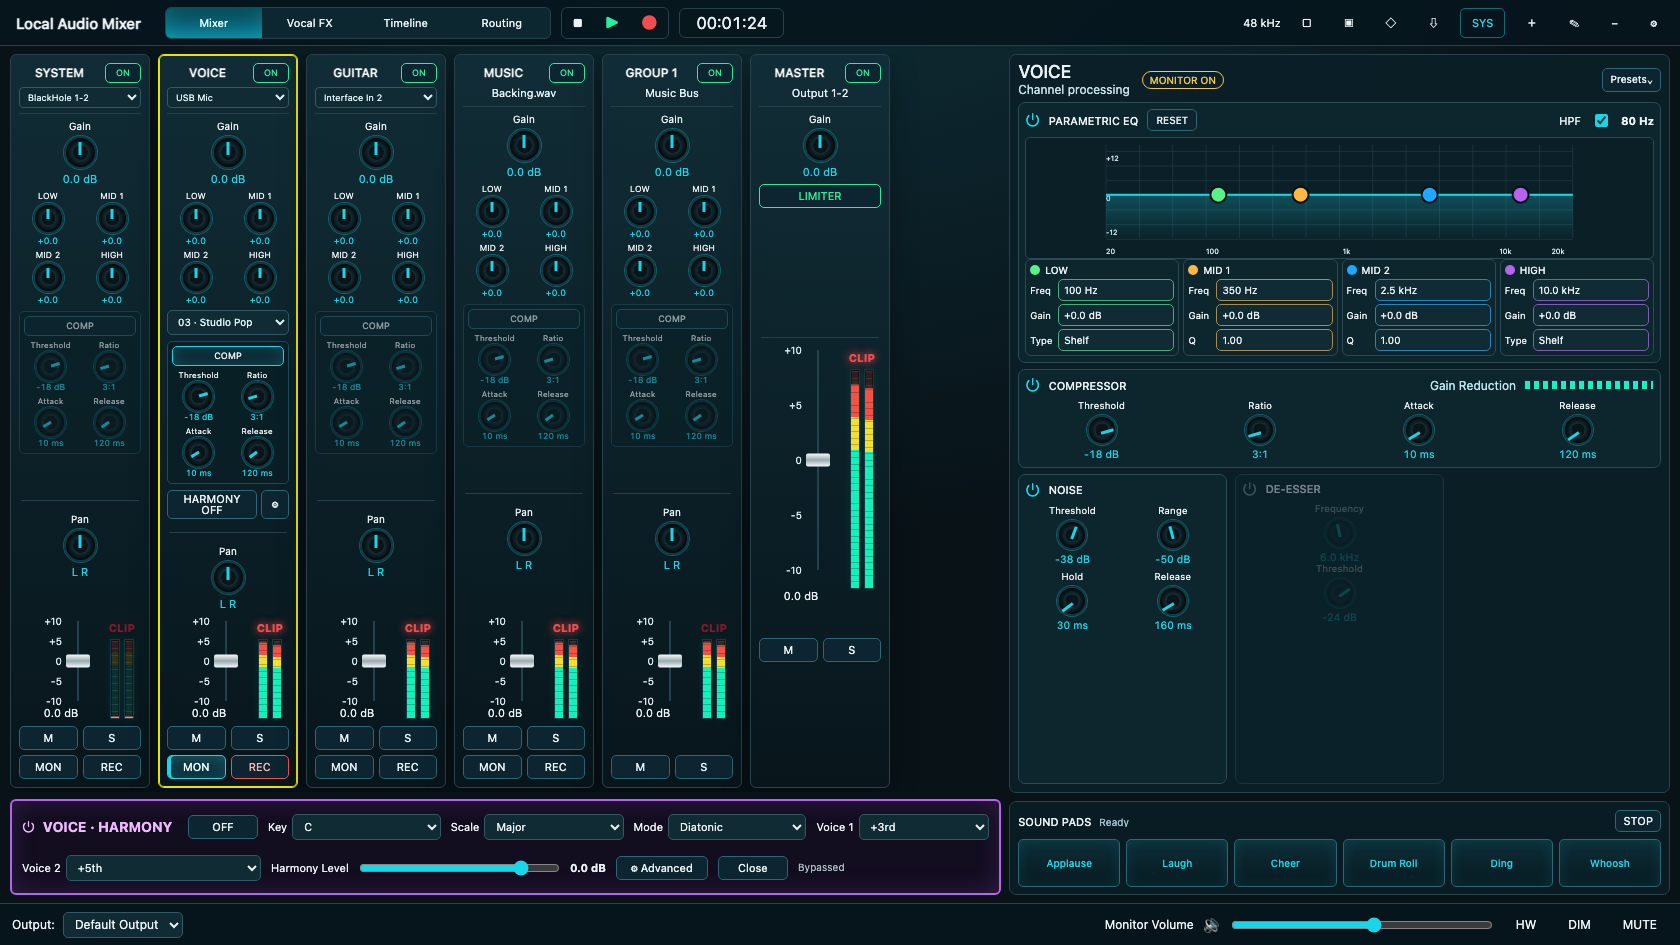
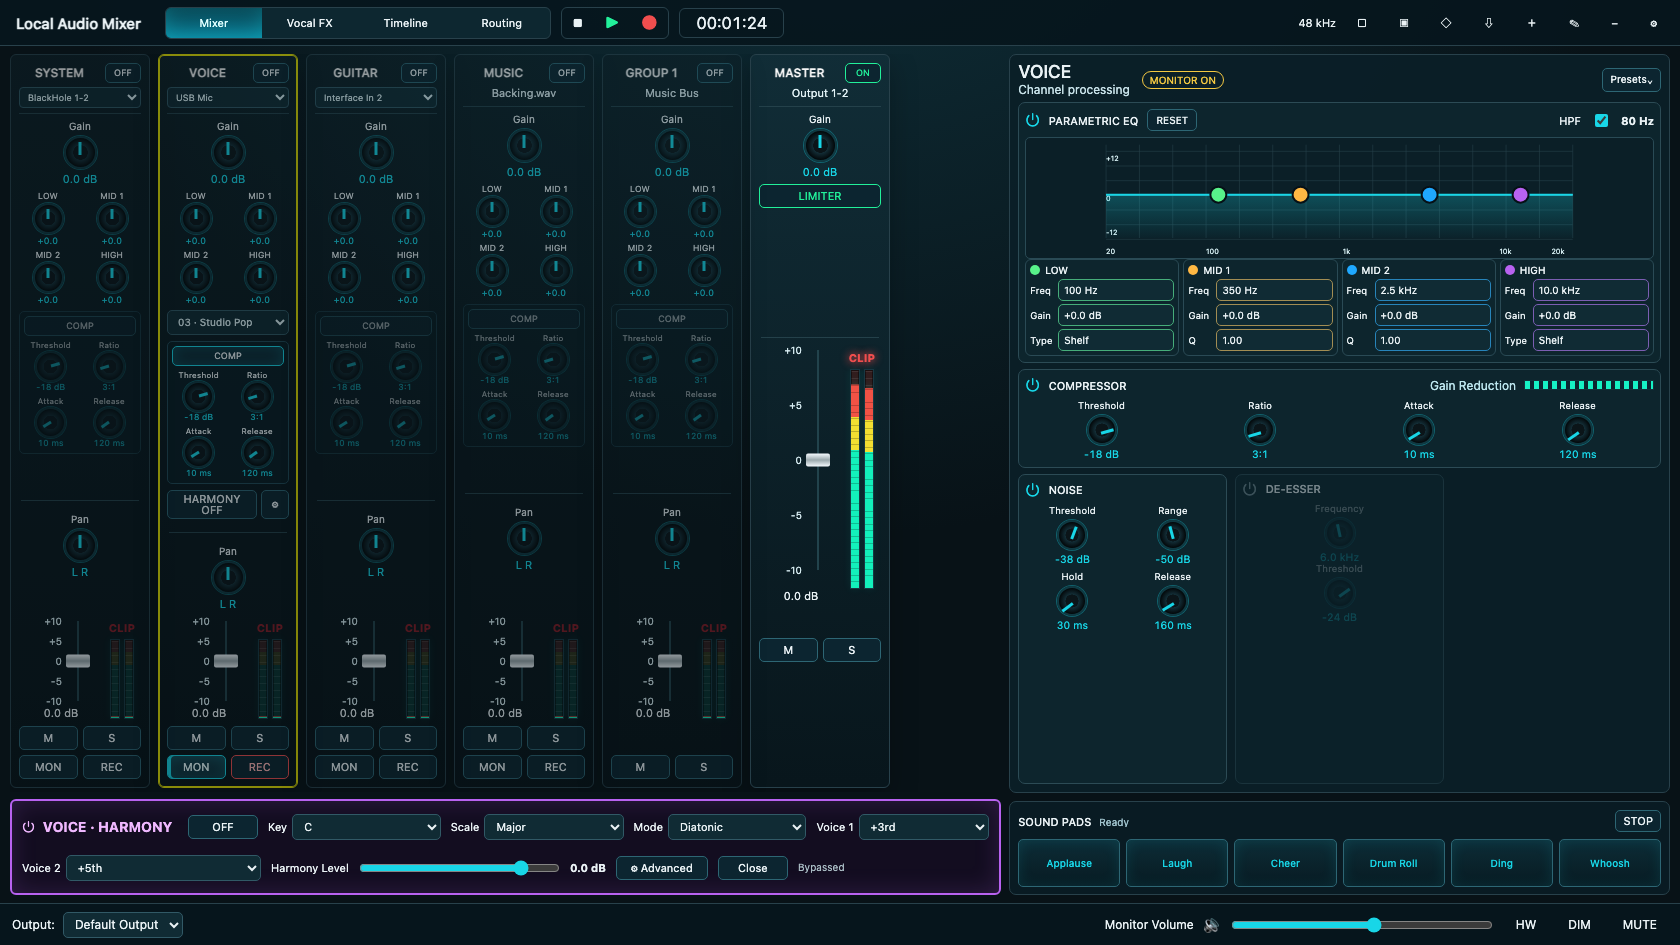
Start mixer channels off by default

diff --git a/apps/desktop/src/features/mixer/MixerPage.tsx b/apps/desktop/src/features/mixer/MixerPage.tsx
@@ -38,7 +38,6 @@ export function MixerPage() {
   const [transportState, setTransportState] = useState("stopped");
   const [projectPath, setProjectPath] = useState("");
   const [systemAudioEnabled, setSystemAudioEnabled] = useState(false);
-  const [systemAudioStatus, setSystemAudioStatus] = useState("System Audio");
   const [systemMeter, setSystemMeter] = useState<MeterLevel>({ left: -60, right: -60, clip: false });
   const autosaveReady = useRef(false);
   const liveMonitorRefreshTimer = useRef<number | undefined>(undefined);
@@ -129,23 +128,31 @@ export function MixerPage() {
     void refreshActiveMonitor(adapter.getSnapshot(), uid);
   }
 
-  async function toggleSystemAudio() {
+  async function setSystemChannelEnabled(enabled: boolean) {
     const engineCommand = window.localMixer?.engineCommand;
-    if (!engineCommand) return;
-
-    if (systemAudioEnabled) {
-      await engineCommand("stop-mixer-monitor");
-      const result = await engineCommand("routing-system-disable");
-      refresh(() => adapter.setChannelMonitor("system", false));
+    if (!enabled) {
+      if (engineCommand && systemAudioEnabled) {
+        await engineCommand("stop-mixer-monitor");
+        const result = await engineCommand("routing-system-disable");
+        if (result?.ok === false) window.alert(String(result.error ?? "Route restore failed"));
+      }
+      refresh(() => {
+        adapter.setChannelEnabled("system", false);
+        adapter.setChannelMonitor("system", false);
+      });
       setSystemAudioEnabled(false);
-      setSystemAudioStatus(result?.ok === false ? String(result.error ?? "Route restore failed") : "System Audio");
+      return;
+    }
+
+    if (!engineCommand) {
+      const nextSnapshot = refresh(() => adapter.setChannelEnabled("system", true));
+      void refreshActiveMonitor(nextSnapshot);
       return;
     }
 
     const blackHole = devices.find((device) => isBlackHoleDevice(device) && (device.inputChannels ?? 0) >= 2);
     const physicalOutput = physicalOutputDevice(devices, outputUid);
     if (!blackHole || !physicalOutput) {
-      setSystemAudioStatus(!blackHole ? "BlackHole missing" : "Choose output");
       window.alert(!blackHole ? "BlackHole 2ch belum terdeteksi." : "Pilih output fisik, bukan Default/BlackHole.");
       return;
     }
@@ -159,13 +166,12 @@ export function MixerPage() {
       physicalOutputStartChannel: 0
     });
     if (route.routeValid !== true) {
-      setSystemAudioStatus(String(route.error ?? "Route rejected"));
       window.alert(`Route belum siap: ${String(route.error ?? "Route rejected")}`);
       return;
     }
 
     if (!window.confirm("Switch macOS output to BlackHole and monitor SYSTEM through the mixer?")) return;
-    const enabled = await engineCommand("routing-system-enable", {
+    const routeEnabled = await engineCommand("routing-system-enable", {
       blackHoleUid: blackHole.uid,
       physicalOutputUid: physicalOutput.uid,
       sampleRate: 48000,
@@ -173,8 +179,8 @@ export function MixerPage() {
       physicalOutputStartChannel: 0,
       allowOsRouteChange: true
     });
-    if (enabled.ok === false) {
-      setSystemAudioStatus(String(enabled.error ?? "Route failed"));
+    if (routeEnabled.ok === false) {
+      window.alert(String(routeEnabled.error ?? "Route failed"));
       return;
     }
 
@@ -189,7 +195,6 @@ export function MixerPage() {
     await syncMixerGraph(adapter.getSnapshot(), physicalOutput.uid);
     await engineCommand("start-mixer-monitor", { sampleRate: 48000, monitorGainDb: monitorSafetyGainDb });
     setSystemAudioEnabled(true);
-    setSystemAudioStatus("System ON");
   }
 
   async function sendTransport(type: "transport-play" | "transport-pause" | "transport-stop") {
@@ -471,10 +476,7 @@ export function MixerPage() {
         onSave={() => void saveProject()}
         onCollect={() => void collectProject()}
         onExport={() => void exportProject()}
-        systemAudioEnabled={systemAudioEnabled}
-        systemAudioStatus={systemAudioStatus}
         vocalFxEnabled={selected.role !== "system"}
-        onSystemAudio={() => void toggleSystemAudio()}
         onAddChannel={addChannel}
         onRenameChannel={renameSelectedChannel}
         onRemoveChannel={removeSelectedChannel}
@@ -488,6 +490,10 @@ export function MixerPage() {
             vocalFxPresets={snapshot.vocalFx.presets}
             onSelect={(id) => refresh(() => adapter.selectChannel(id))}
             onEnabled={(id, enabled) => {
+              if (id === "system") {
+                void setSystemChannelEnabled(enabled);
+                return;
+              }
               const nextSnapshot = refresh(() => adapter.setChannelEnabled(id, enabled));
               void refreshActiveMonitor(nextSnapshot);
             }}
@@ -701,13 +707,11 @@ function parseFxPrograms(programs: unknown[]): FxProgram[] {
   });
 }
 
-function TopBar({ projectName, time, rate, transportState, systemAudioEnabled, systemAudioStatus, vocalFxEnabled, onVocalFx, onTimeline, onPlay, onStop, onRecord, onOpen, onSave, onCollect, onExport, onSystemAudio, onAddChannel, onRenameChannel, onRemoveChannel }: {
+function TopBar({ projectName, time, rate, transportState, vocalFxEnabled, onVocalFx, onTimeline, onPlay, onStop, onRecord, onOpen, onSave, onCollect, onExport, onAddChannel, onRenameChannel, onRemoveChannel }: {
   projectName: string;
   time: string;
   rate: string;
   transportState: string;
-  systemAudioEnabled: boolean;
-  systemAudioStatus: string;
   vocalFxEnabled: boolean;
   onVocalFx(): void;
   onTimeline(): void;
@@ -718,7 +722,6 @@ function TopBar({ projectName, time, rate, transportState, systemAudioEnabled, s
   onSave(): void;
   onCollect(): void;
   onExport(): void;
-  onSystemAudio(): void;
   onAddChannel(): void;
   onRenameChannel(): void;
   onRemoveChannel(): void;
@@ -740,14 +743,6 @@ function TopBar({ projectName, time, rate, transportState, systemAudioEnabled, s
       <button className="settings" aria-label="Save Project" title="Save Project" onClick={onSave}>▣</button>
       <button className="settings" aria-label="Collect Media" title="Collect Media" onClick={onCollect}>◇</button>
       <button className="settings" aria-label="Export Mix" title="Export Mix" onClick={onExport}>⇩</button>
-      <button
-        className={`settings system-audio-toggle${systemAudioEnabled ? " is-active" : ""}`}
-        aria-label={systemAudioStatus}
-        title={systemAudioStatus}
-        onClick={onSystemAudio}
-      >
-        SYS
-      </button>
       <button className="settings" aria-label="Add Channel" title="Add Channel" onClick={onAddChannel}>＋</button>
       <button className="settings" aria-label="Rename Channel" title="Rename Channel" onClick={onRenameChannel}>✎</button>
       <button className="settings" aria-label="Remove Channel" title="Remove Channel" onClick={onRemoveChannel}>−</button>

diff --git a/tests/ui/visual.visual.ts b/tests/ui/visual.visual.ts
@@ -10,6 +10,10 @@ for (const viewport of viewports) {
     await page.setViewportSize({ width: viewport.width, height: viewport.height });
     await page.goto("/");
     await expect(page.getByRole("heading", { name: "Local Audio Mixer" })).toBeVisible();
+    await expect(page.getByRole("button", { name: "SYS" })).toHaveCount(0);
+    await expect(page.locator(".channel-strip").filter({ hasText: "SYSTEM" }).getByRole("button", { name: "OFF", exact: true })).toBeVisible();
+    await expect(page.locator(".channel-strip").filter({ hasText: "VOICE" }).getByRole("button", { name: "OFF", exact: true })).toBeVisible();
+    await expect(page.locator(".channel-strip").filter({ hasText: "MASTER" }).getByRole("button", { name: "ON", exact: true })).toBeVisible();
     await expect(page.getByText("FX A")).toHaveCount(0);
     await expect(page.getByText("FX B")).toHaveCount(0);
     await expect(page.getByText("VOICE · HARMONY")).toBeVisible();

diff --git a/apps/desktop/src/fixtures/approvedMixerSession.ts b/apps/desktop/src/fixtures/approvedMixerSession.ts
@@ -66,7 +66,7 @@ export const approvedMixerSession: MixerSnapshot = {
 function channel(id: string, name: string, source: string, role: "system" | "vocal" | "instrument" | "music" | "group", faderDb: number, sendA: number, sendB: number, mon: boolean, rec: boolean) {
   return {
     id, name, source, kind: role === "group" ? "group" as const : "source" as const, role,
-    selected: id === "voice", enabled: true, trimDb: 0, pan: 0, faderDb, mute: false, solo: false,
+    selected: id === "voice", enabled: false, trimDb: 0, pan: 0, faderDb, mute: false, solo: false,
     monitor: mon, recordArm: rec, harmonyVisible: role === "vocal", harmonyEnabled: false,
     processing: { eq: true, comp: role === "vocal", noise: role === "vocal", deEsser: false, insertFx: role === "vocal" },
     dynamics: cloneDynamics(),

diff --git a/tests/ui/export-document.test.ts b/tests/ui/export-document.test.ts
@@ -4,7 +4,12 @@ import { snapshotToExportRequest } from "../../apps/desktop/src/features/export/
 
 describe("export workflow request", () => {
   it("builds a native export preflight payload from the mixer snapshot", () => {
-    const request = snapshotToExportRequest(approvedMixerSession, "/tmp/mix.wav");
+    const snapshot = structuredClone(approvedMixerSession);
+    const music = snapshot.channels.find((channel) => channel.id === "music");
+    const voice = snapshot.channels.find((channel) => channel.id === "voice");
+    if (music) music.enabled = true;
+    if (voice) voice.enabled = true;
+    const request = snapshotToExportRequest(snapshot, "/tmp/mix.wav");
 
     expect(request).toMatchObject({
       schemaVersion: 1,

diff --git a/apps/desktop/src/styles/app.css b/apps/desktop/src/styles/app.css
@@ -22,8 +22,6 @@
 }
 .top-bar nav .active { background: linear-gradient(#073d4b, #0b829a); color: #dfffff; box-shadow: inset 0 0 20px rgba(24, 214, 231, 0.25); }
 .top-bar nav button:disabled { color: #60767e; cursor: not-allowed; opacity: 0.55; }
-.system-audio-toggle { color: var(--cyan); border: 1px solid rgba(24, 214, 231, 0.45); border-radius: 5px; }
-.system-audio-toggle.is-active { color: #03191e; background: var(--cyan); border-color: var(--cyan); box-shadow: 0 0 14px rgba(24, 214, 231, 0.45); }
 .transport { display: flex; border: 1px solid var(--border); border-radius: 6px; overflow: hidden; }
 .transport .play { color: var(--green); font-size: 18px; }
 .transport .record { color: var(--danger); font-size: 18px; }

diff --git a/tests/ui/preview-adapter.test.ts b/tests/ui/preview-adapter.test.ts
@@ -15,6 +15,19 @@ describe("PreviewAdapter", () => {
     ]);
   });
 
+  it("starts with only the master output channel enabled", () => {
+    const adapter = new PreviewAdapter();
+    const snapshot = adapter.getSnapshot();
+    expect(snapshot.channels.map((channel) => [channel.id, channel.enabled])).toEqual([
+      ["system", false],
+      ["voice", false],
+      ["guitar", false],
+      ["music", false],
+      ["group1", false],
+      ["master", true]
+    ]);
+  });
+
   it("keeps selected channel send A linked to the same state", () => {
     const adapter = new PreviewAdapter();
     adapter.setChannelSend("voice", "fx-a", -12);

diff --git a/docs/progress.md b/docs/progress.md
@@ -3930,3 +3930,33 @@ Validation:
 Known limitations:
 - Manual live listening confirmation for each channel's strip compressor behavior is `NOT_RUN`; automated coverage verifies UI state and the native sync/control path.
 - True simultaneous native live capture/mixing for multiple active channels remains a separate required checkpoint.
+
+### Phase19 UX Checkpoint — Default Channels Off And Move System Trigger To Strip
+
+Changed files:
+- `apps/desktop/src/fixtures/approvedMixerSession.ts`: changed startup channel state so SYSTEM, VOICE, GUITAR, MUSIC, and GROUP 1 begin OFF while MASTER remains ON.
+- `apps/desktop/src/features/mixer/MixerPage.tsx`: removed the header SYS control path and routed SYSTEM channel ON/OFF through the existing native BlackHole/system routing enable-disable flow.
+- `apps/desktop/src/styles/app.css`: removed the now-unused header SYS toggle styling.
+- `tests/ui/preview-adapter.test.ts`: covered the new default enabled state contract.
+- `tests/ui/export-document.test.ts`: made export media tests explicitly enable channels that participate in export, matching the new startup-off default.
+- `tests/ui/visual.visual.ts`: verified the header SYS button is absent and startup strips show SYSTEM/VOICE OFF with MASTER ON.
+- `docs/progress.md`: recorded verification evidence.
+
+Implemented behavior:
+- Opening the app now starts with all mixer channels OFF except MASTER output.
+- SYSTEM audio routing is no longer triggered from the header; clicking ON on the SYSTEM strip now performs the guarded BlackHole route check/enable flow.
+- Clicking OFF on the SYSTEM strip stops the native monitor, attempts route restore, clears SYSTEM monitor, and leaves the SYSTEM channel OFF.
+
+Validation:
+- command: `npm run typecheck`
+- exit/result: `0`; TypeScript passed.
+- command: `npm run test:ui`
+- exit/result: `0`; Vitest 51/51 passed.
+- command: `npm run test:visual`
+- exit/result: `0`; Playwright visual suite 6/6 passed and refreshed the current UI screenshots.
+- command: `npm run verify`
+- exit/result: `0`; plan, file-size, architecture, typecheck, Vitest 51/51, native CTest 43/43, engine self-test, device enumeration smoke, protocol smoke, UI build, and Electron main/preload build passed.
+
+Known limitations:
+- Manual BlackHole route enable/disable from the SYSTEM strip is `NOT_RUN`; automated coverage verifies UI/default state and the control-path wiring, not physical macOS routing.
+- True simultaneous native live capture/mixing for multiple active channels remains a separate required checkpoint.
